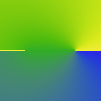
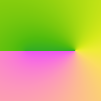
rebuildImages,a-h

diff --git a/Help/Reference/README.md b/Help/Reference/README.md
@@ -6,7 +6,7 @@ Run documentation tests:
 { 'Help/Reference'.splFilePath.terseReferenceSummary(['verboseLevel': 0, 'pattern': '.*']) }.timing
 ~~~
 
-Total => 19,881 (200 seconds)
+Total => 19,946 (200 seconds)
 
 Note: Requires LibraryItems be at the interpreter cache, i.e.
 
